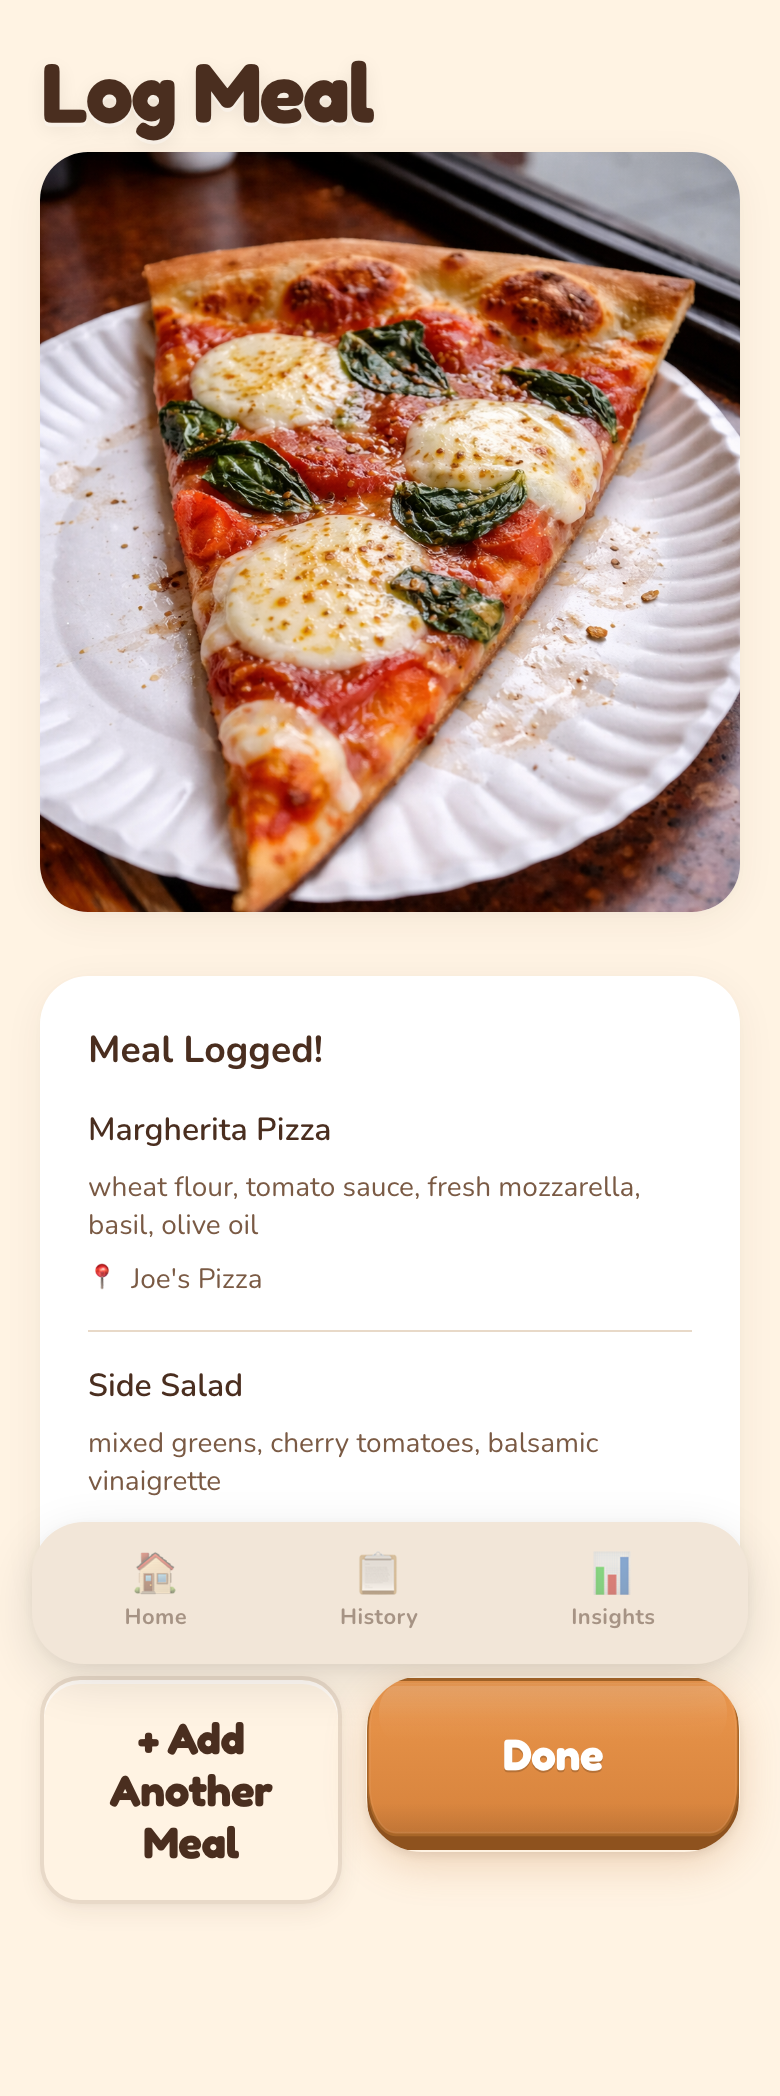
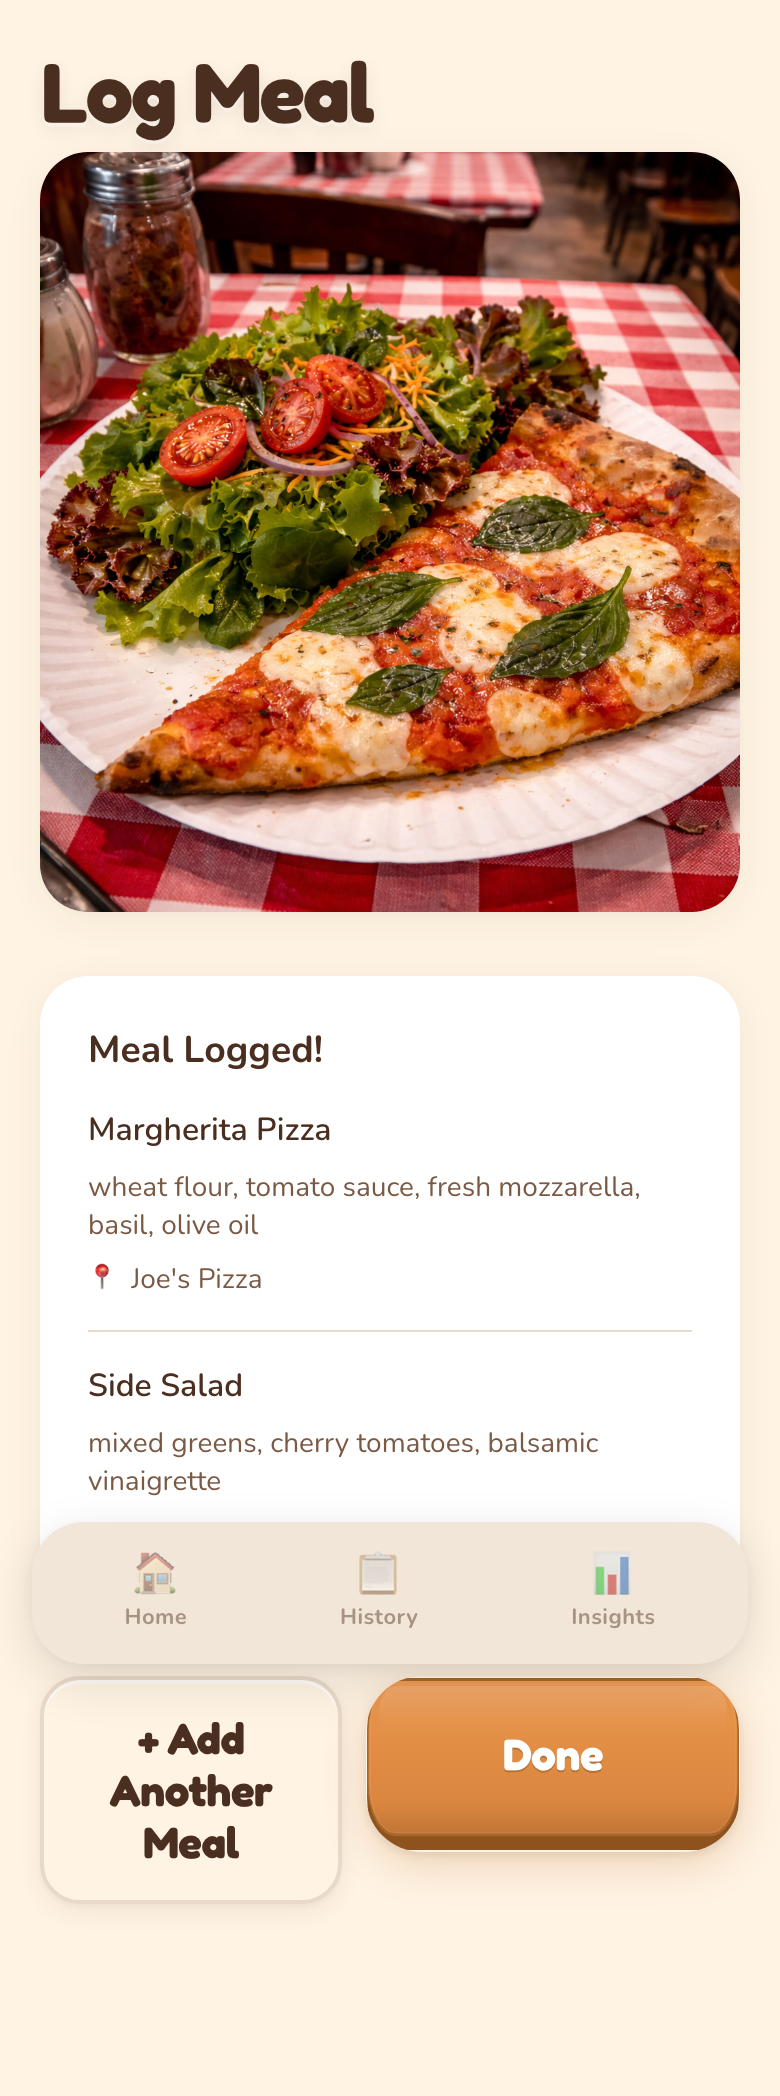
Add anonymous analytics event tracking and update mockup food photo
Track key user actions (guest_entered, meal_logged, poop_logged,
insights_viewed, account_created) via a new fire-and-forget POST
/api/events endpoint. Events store action, isGuest flag, and an
anonymous session ID with no PII. Also replace the mockup food
photo with salad_pizza.png.

diff --git a/src/pages/LogMeal.js b/src/pages/LogMeal.js
@@ -3,6 +3,7 @@ import { useNavigate, useLocation } from 'react-router-dom';
 import { useAuth } from '../contexts/AuthContext';
 import api, { offlinePost } from '../services/api';
 import { saveGuestMeal } from '../services/guestStorage';
+import { trackEvent } from '../services/analytics';
 
 function getDefaultMealTime() {
   const hour = new Date().getHours();
@@ -109,6 +110,7 @@ function LogMeal() {
           await saveGuestMeal(foods);
         }
         setResult(aiResult);
+        trackEvent('meal_logged');
       } else {
         const response = await offlinePost('/meals', formData, {
           headers: { 'Content-Type': 'multipart/form-data' }
@@ -120,6 +122,7 @@ function LogMeal() {
             foods: [{ name: 'Meal saved offline', category: 'Pending sync' }],
             notes: 'This meal will be analyzed when you\'re back online'
           });
+          trackEvent('meal_logged');
           return;
         }
 
@@ -138,6 +141,7 @@ function LogMeal() {
         } else {
           setResult(response.data);
         }
+        trackEvent('meal_logged');
       }
     } catch (error) {
       console.error('Failed to upload meal:', error);
@@ -163,6 +167,7 @@ function LogMeal() {
         const foods = [{ name: description.trim(), ingredients: [] }];
         await saveGuestMeal(foods);
         setResult({ foods });
+        trackEvent('meal_logged');
       } else {
         const response = await offlinePost('/meals/manual', {
           description: description.trim(),
@@ -179,6 +184,7 @@ function LogMeal() {
         } else {
           setResult(response.data);
         }
+        trackEvent('meal_logged');
       }
     } catch (error) {
       console.error('Failed to log meal:', error);

diff --git a/server/routes/events.js b/server/routes/events.js
@@ -1,0 +1,48 @@
+const express = require('express');
+const rateLimit = require('express-rate-limit');
+
+const router = express.Router();
+
+const VALID_ACTIONS = [
+  'guest_entered',
+  'meal_logged',
+  'poop_logged',
+  'insights_viewed',
+  'account_created',
+];
+
+// Rate limit: 60 events per 15 min per IP
+const eventsLimiter = rateLimit({
+  windowMs: 15 * 60 * 1000,
+  max: 60,
+  standardHeaders: true,
+  legacyHeaders: false,
+  handler: (req, res) => {
+    res.status(429).json({ message: 'Too many events' });
+  },
+});
+
+router.post('/', eventsLimiter, async (req, res) => {
+  try {
+    const { action, isGuest, sessionId } = req.body;
+
+    if (!action || !VALID_ACTIONS.includes(action)) {
+      return res.status(400).json({ message: 'Invalid action' });
+    }
+
+    await req.prisma.analyticsEvent.create({
+      data: {
+        action,
+        isGuest: Boolean(isGuest),
+        sessionId: sessionId ? String(sessionId).slice(0, 64) : null,
+      },
+    });
+
+    res.status(201).json({ ok: true });
+  } catch (error) {
+    req.log.error({ err: error }, 'Failed to save analytics event');
+    res.status(500).json({ message: 'Failed to save event' });
+  }
+});
+
+module.exports = router;

diff --git a/src/contexts/AuthContext.js b/src/contexts/AuthContext.js
@@ -1,6 +1,7 @@
 import { createContext, useContext, useState, useEffect } from 'react';
 import api from '../services/api';
 import { getAllGuestData, clearGuestData } from '../services/guestStorage';
+import { trackEvent } from '../services/analytics';
 
 const AuthContext = createContext(null);
 
@@ -26,6 +27,7 @@ export function AuthProvider({ children }) {
   const enterGuestMode = () => {
     localStorage.setItem('guestMode', 'true');
     setIsGuest(true);
+    trackEvent('guest_entered');
   };
 
   const migrateGuestData = async () => {
@@ -70,6 +72,7 @@ export function AuthProvider({ children }) {
     api.defaults.headers.common['Authorization'] = `Bearer ${token}`;
     setUser(user);
     setIsGuest(false);
+    trackEvent('account_created');
 
     if (wasGuest) {
       await migrateGuestData();

diff --git a/server/index.js b/server/index.js
@@ -13,6 +13,7 @@ const insightsRoutes = require('./routes/insights');
 const historyRoutes = require('./routes/history');
 const migrateRoutes = require('./routes/migrate');
 const notificationRoutes = require('./routes/notifications');
+const eventsRoutes = require('./routes/events');
 const { startScheduler } = require('./services/notificationScheduler');
 
 const app = express();
@@ -60,6 +61,7 @@ app.use('/api/insights', insightsRoutes);
 app.use('/api/history', historyRoutes);
 app.use('/api/migrate', migrateRoutes);
 app.use('/api/notifications', notificationRoutes);
+app.use('/api/events', eventsRoutes);
 
 // Health check
 app.get('/api/health', (req, res) => {

diff --git a/src/pages/Home.js b/src/pages/Home.js
@@ -3,6 +3,7 @@ import { useNavigate } from 'react-router-dom';
 import { useAuth } from '../contexts/AuthContext';
 import { offlinePost } from '../services/api';
 import { saveGuestPoop } from '../services/guestStorage';
+import { trackEvent } from '../services/analytics';
 import cameraIcon from '../assets/camera-icon.png';
 import poopIcon from '../assets/poop-icon.png';
 
@@ -114,6 +115,7 @@ function Home() {
       setShowSuccess(true);
       setSelectedSeverity(null);
       setSelectedSymptoms([]);
+      trackEvent('poop_logged');
       setTimeout(() => setShowSuccess(false), 2000);
     } catch (error) {
       console.error('Failed to log poop:', error);

diff --git a/src/services/analytics.js b/src/services/analytics.js
@@ -1,0 +1,19 @@
+import api from './api';
+
+// Generate a random session ID (persisted per browser session)
+function getSessionId() {
+  let id = sessionStorage.getItem('_sid');
+  if (!id) {
+    id = crypto.randomUUID();
+    sessionStorage.setItem('_sid', id);
+  }
+  return id;
+}
+
+export function trackEvent(action) {
+  const isGuest = localStorage.getItem('guestMode') === 'true';
+  const sessionId = getSessionId();
+
+  // Fire-and-forget — don't block the UI or surface errors
+  api.post('/events', { action, isGuest, sessionId }).catch(() => {});
+}

diff --git a/src/pages/Insights.js b/src/pages/Insights.js
@@ -4,6 +4,7 @@ import { useAuth } from '../contexts/AuthContext';
 import api from '../services/api';
 import { getGuestStats, getGuestMeals, getGuestPoops } from '../services/guestStorage';
 import { isReadyForInsights } from '../utils/insightReadiness';
+import { trackEvent } from '../services/analytics';
 
 function Insights() {
   const navigate = useNavigate();
@@ -30,6 +31,7 @@ function Insights() {
 
   useEffect(() => {
     fetchInsights();
+    trackEvent('insights_viewed');
   }, [fetchInsights]);
 
   // Derived state
